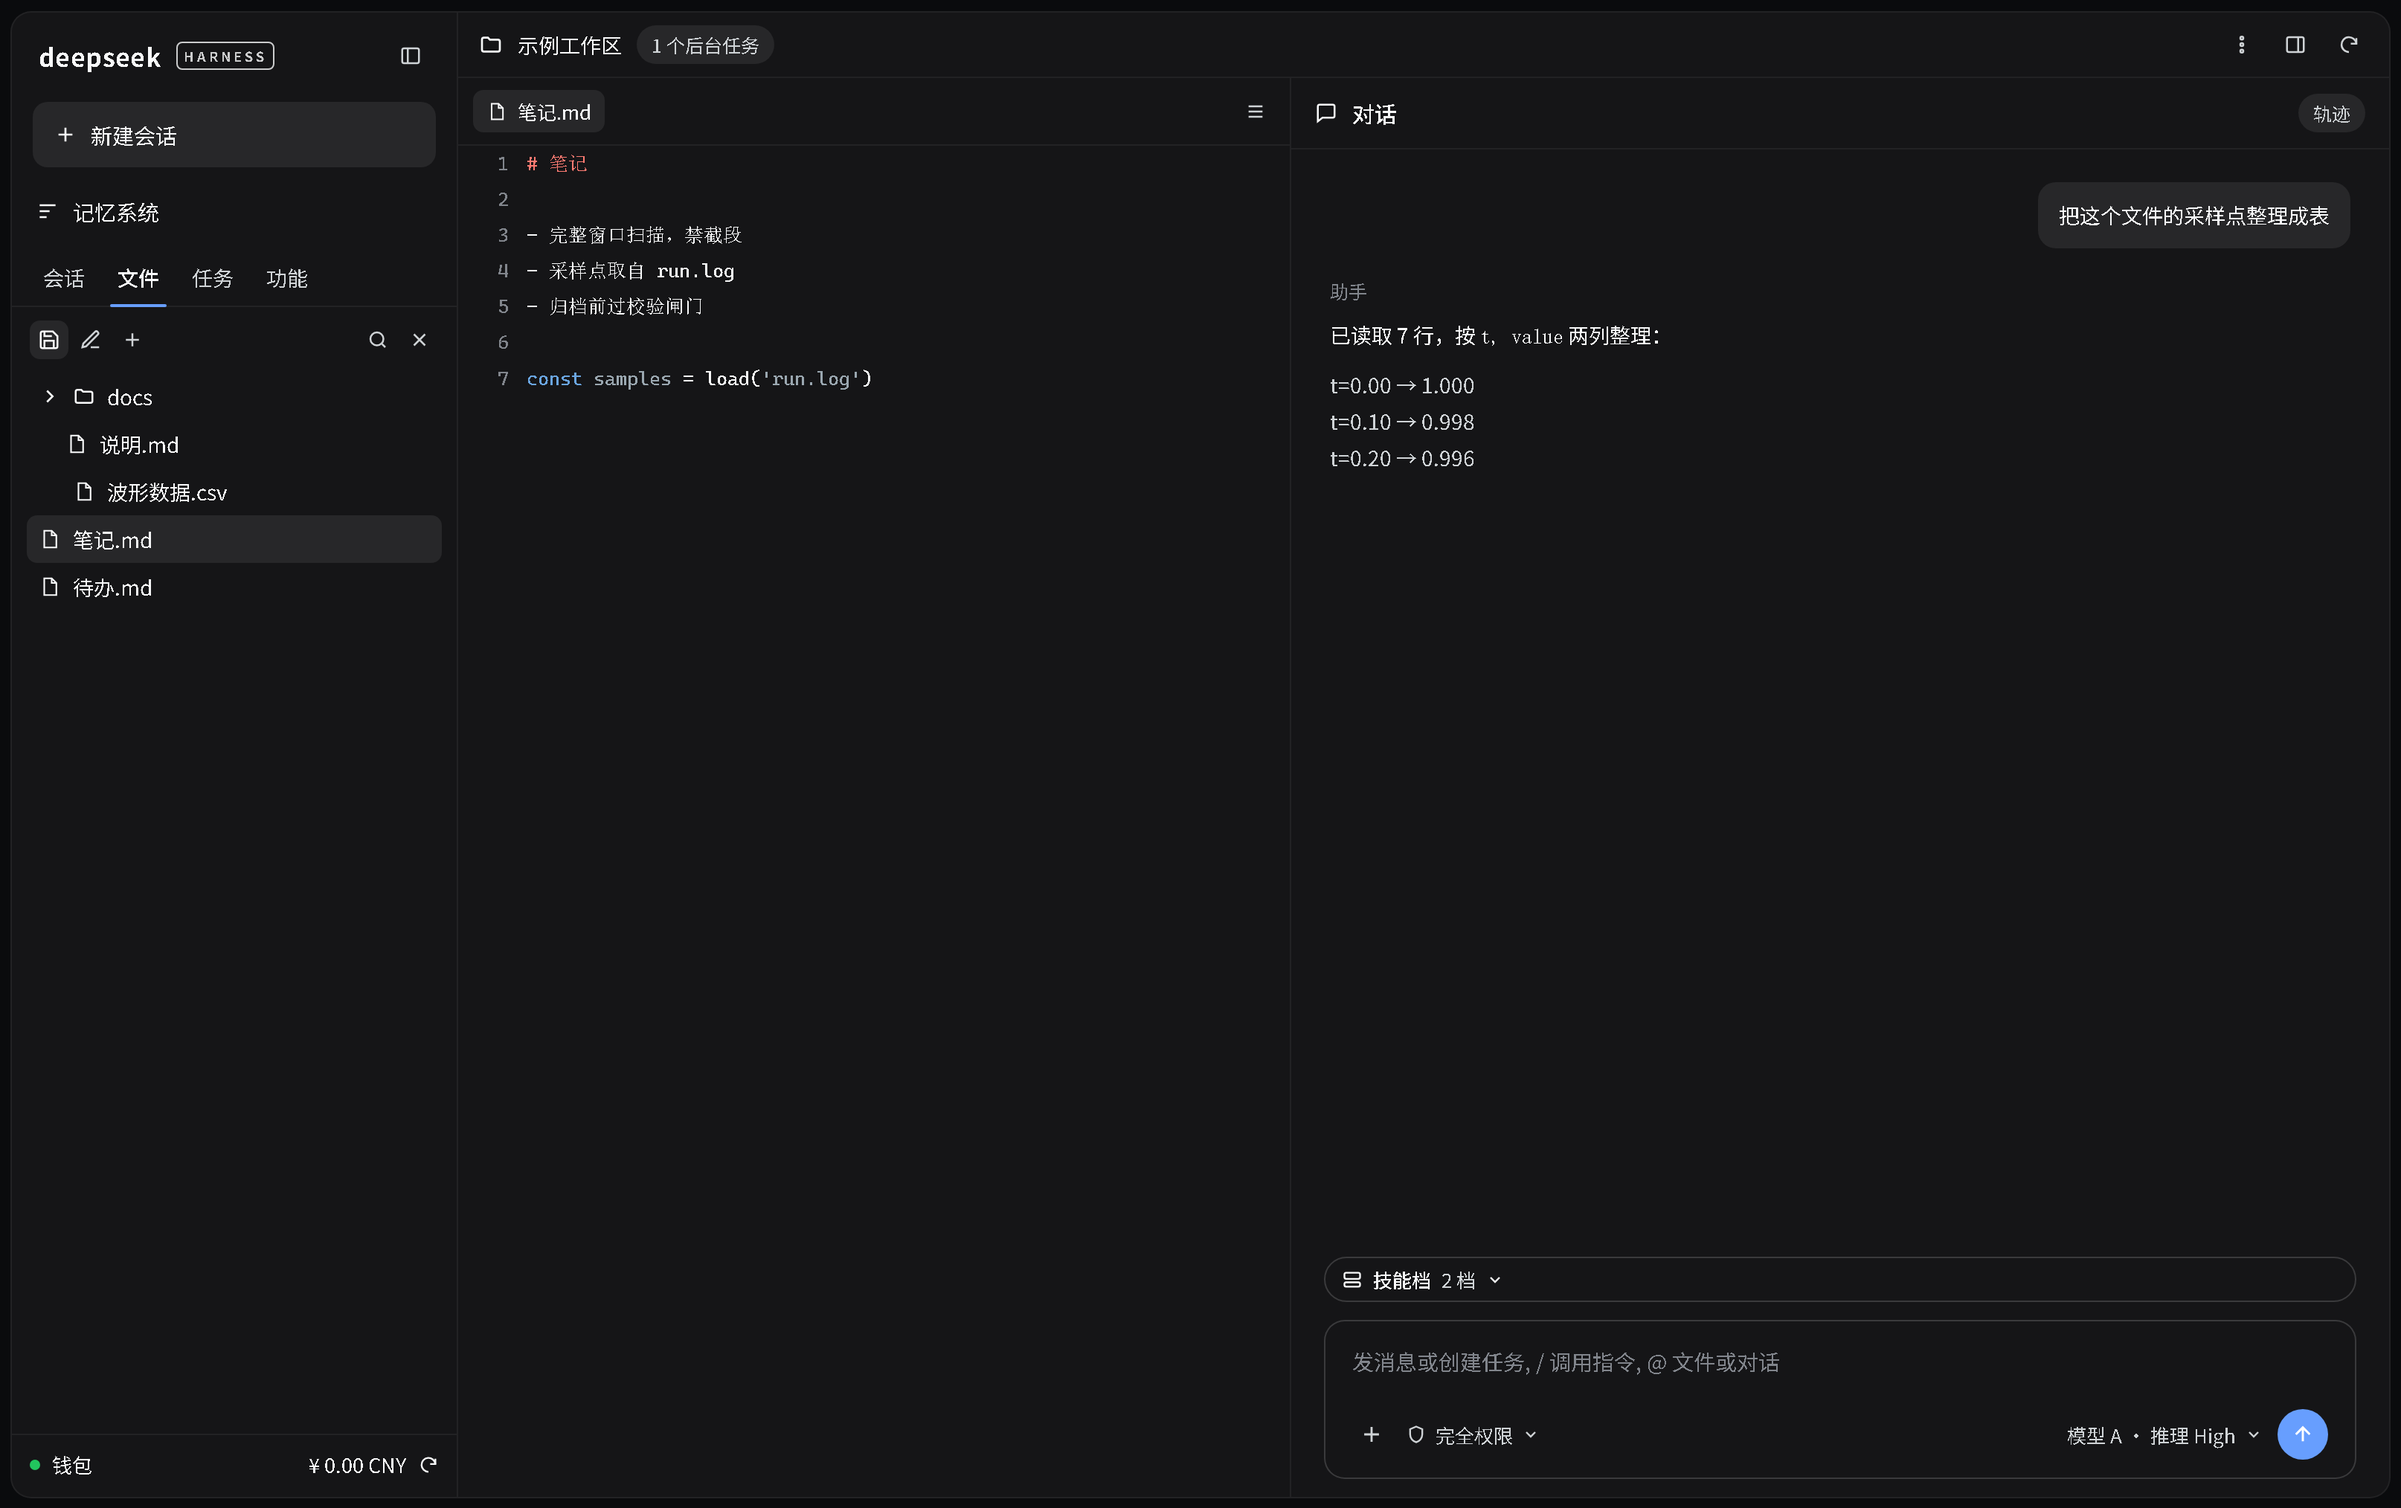
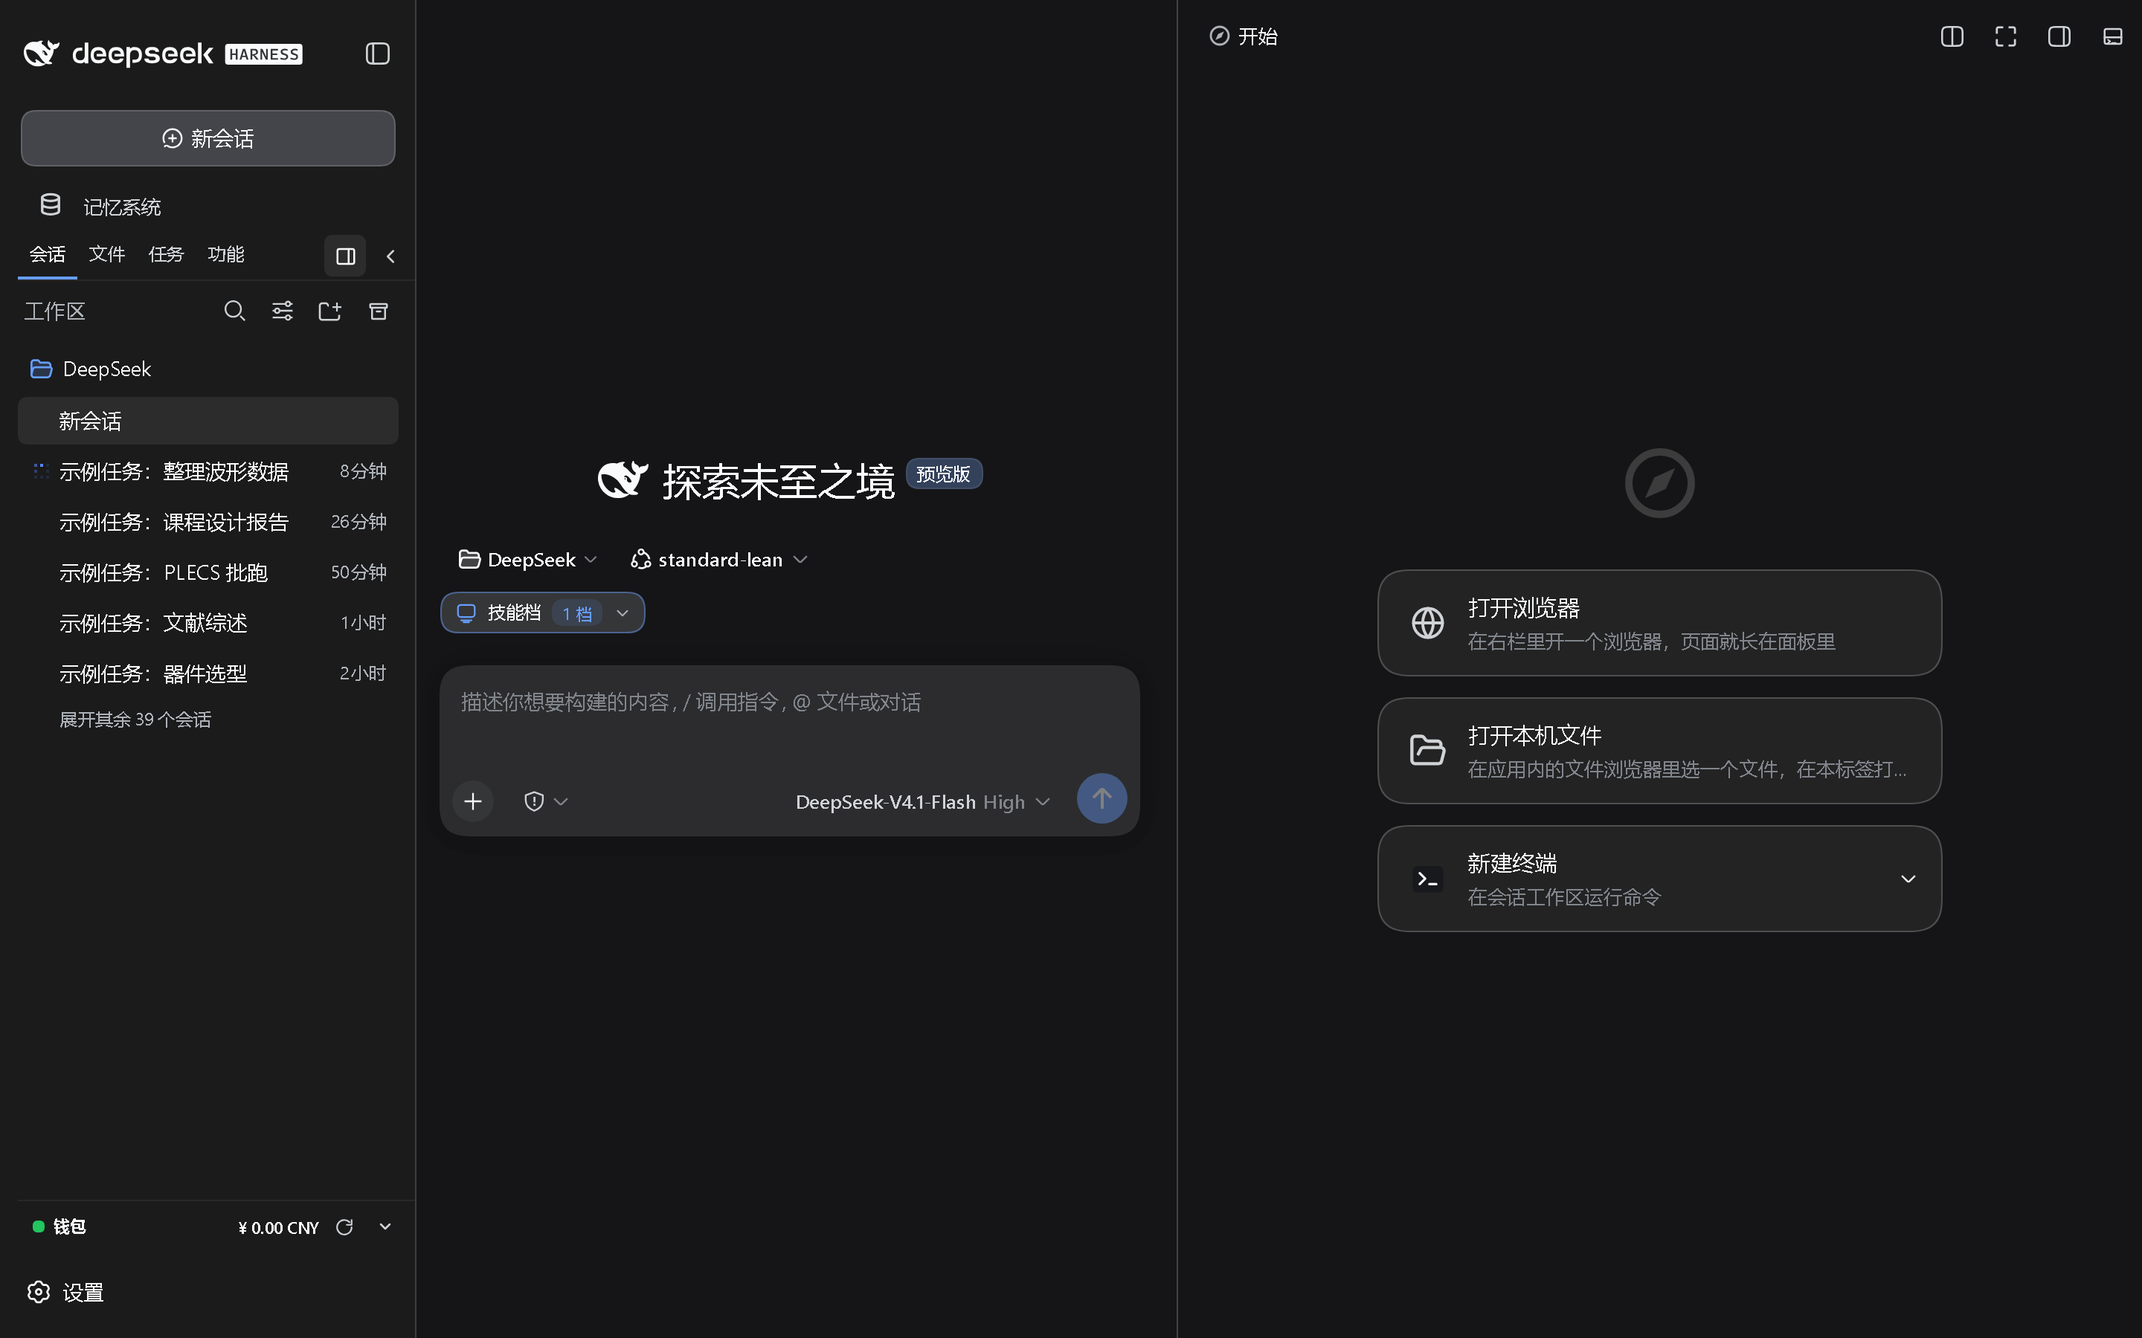
README 与界面图更新：截图改用运行实例实拍，示例内容已脱敏

diff --git a/README.en.md b/README.en.md
@@ -2,10 +2,9 @@
 
 [中文](README.md) · English
 
-![Three-column layout (dark)](assets/vk-suite-layout-en.png)
-![Three-column layout (light)](assets/vk-suite-layout-light.png)
+![Three-column layout (dark)](assets/vk-suite-layout.png)
 
-*Mockups: layout rendered from the official theme tokens, not screenshots of a running instance.*
+*Screenshot of a running DSH instance; demo content is sanitized.*
 
 A three-column layout for DSH. It takes all 8 packages to form: `dsh-vk-contract` is the contract, the other 7 each fill one pane and hook onto the contract through `dsh.client.inject`.
 

diff --git a/README.md b/README.md
@@ -2,10 +2,9 @@
 
 [English](README.en.md) · 中文
 
-![三栏布局（暗色）界面示意](assets/vk-suite-layout.png)
-![三栏布局（亮色）界面示意](assets/vk-suite-layout-light.png)
+![三栏布局（暗色）界面实拍](assets/vk-suite-layout.png)
 
-*界面示意：按官方主题变量渲染的版式，非实机截图。*
+*界面实拍：截自本机运行中的 DSH 实例，示例内容已脱敏。*
 
 一套三栏 layout，8 个包合起来才成形。`dsh-vk-contract` 是契约，其余 7 个各填一格，都靠 `dsh.client.inject` 挂在契约上。
 
